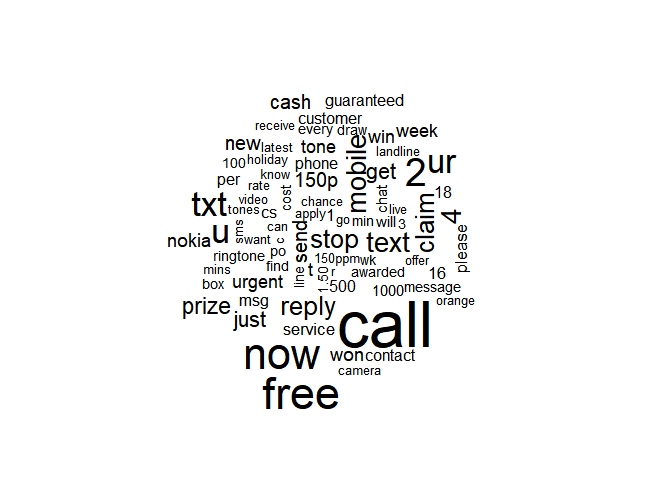
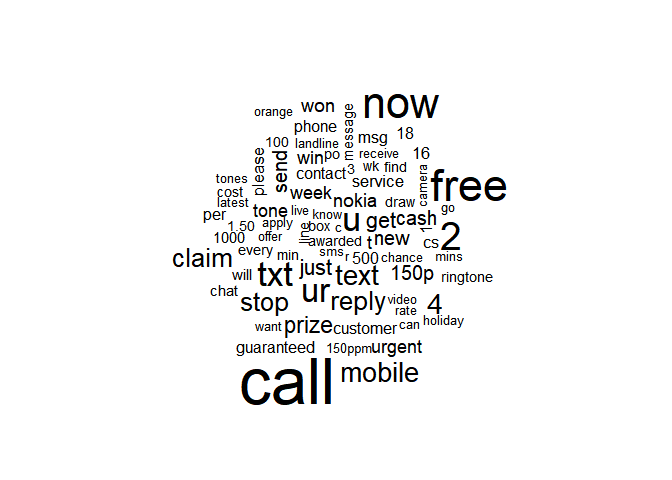
threshold fix

Changed region(s): [[0.25, 0.1875, 0.75, 0.875]]

diff --git a/README.md b/README.md
@@ -63,8 +63,8 @@ library(wordcloud)
 list.files(getwd()) # Should print "bayes_classifier.Rmd" "data" "README.md"
 ```
 
-    ## [1] "bayes_classifier.Rmd"   "bayes_classifier_files" "data"                  
-    ## [4] "README.md"
+    ## [1] "bayes_classifier.md"    "bayes_classifier.Rmd"   "bayes_classifier_files"
+    ## [4] "data"                   "README.md"
 
 ``` r
 list.files("data")  # Should print "stop_words.txt" "test.csv" "train.csv" 
@@ -154,9 +154,9 @@ naiveBayes <- setRefClass("naiveBayes",
       probability <- message %>% transmute(
         pspam = (Spam + 1) / (nrow(words) + spam_words_cnt),
         pham = (Ham + 1) / (nrow(words) + ham_words_cnt))
-      
-      return (prod(probability$pspam) * spam_messages_cnt >
-              prod(probability$pham) * ham_messages_cnt)
+      p_spam = prod(probability$pspam) * spam_messages_cnt
+      p_ham = prod(probability$pham) * ham_messages_cnt
+      return (p_spam > 0.5 * (p_spam + p_ham))
     },
     
     score = function(X_test, y_test)
@@ -176,8 +176,9 @@ naiveBayes <- setRefClass("naiveBayes",
     }
 ))
 
-model = naiveBayes()
+model <- naiveBayes()
 model$fit(X_train, Y_train)
+#model$predict("free sadlksas asdfjhsadfjk hasd fkhadsfjk asdfj hkadsf ")
 model$score(test["Message"], test["Category"])
 ```
 
